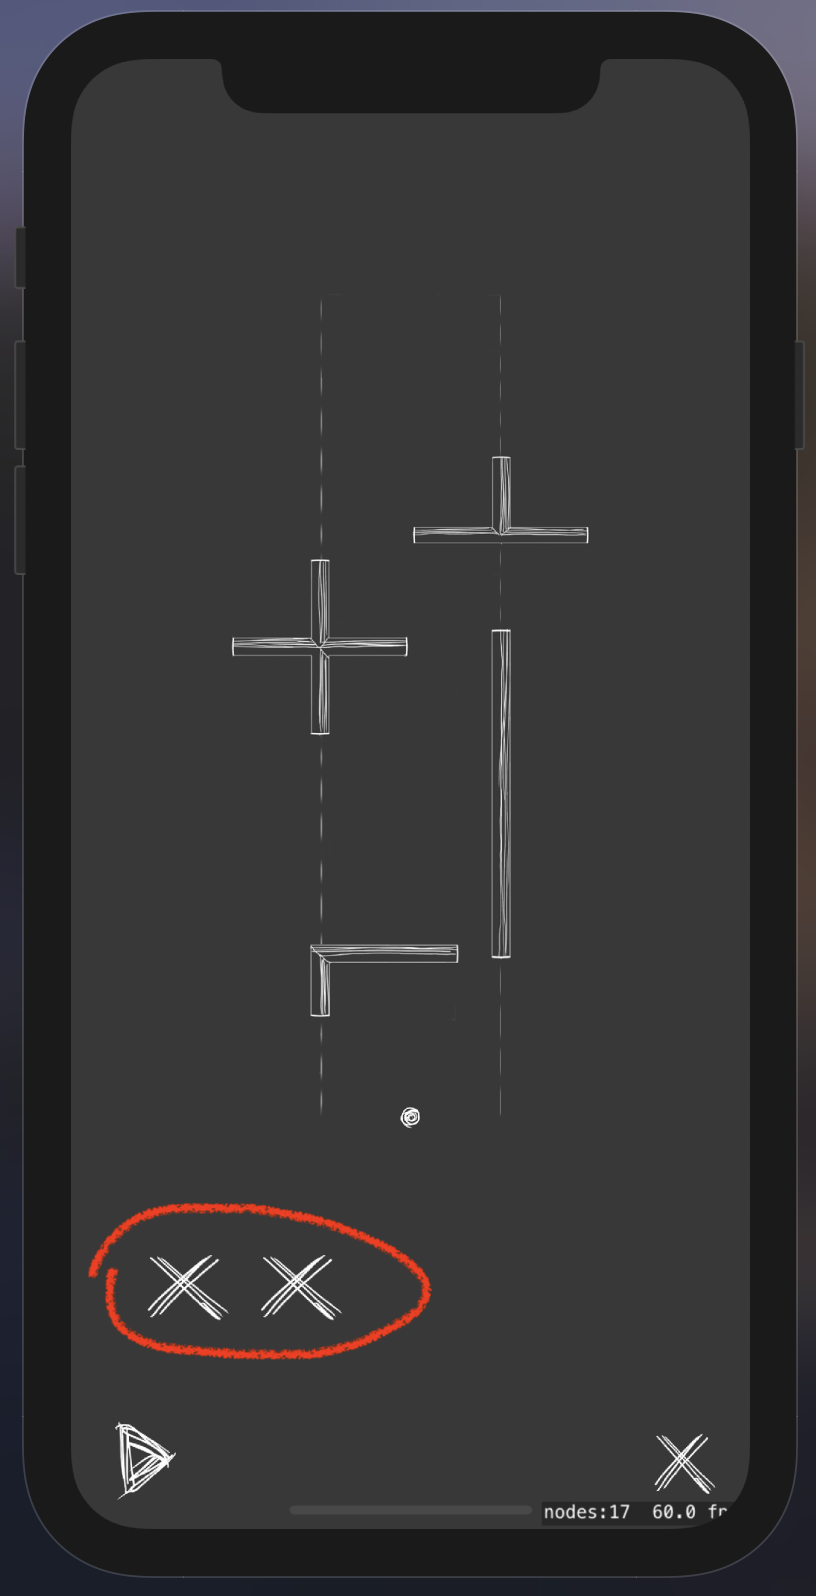
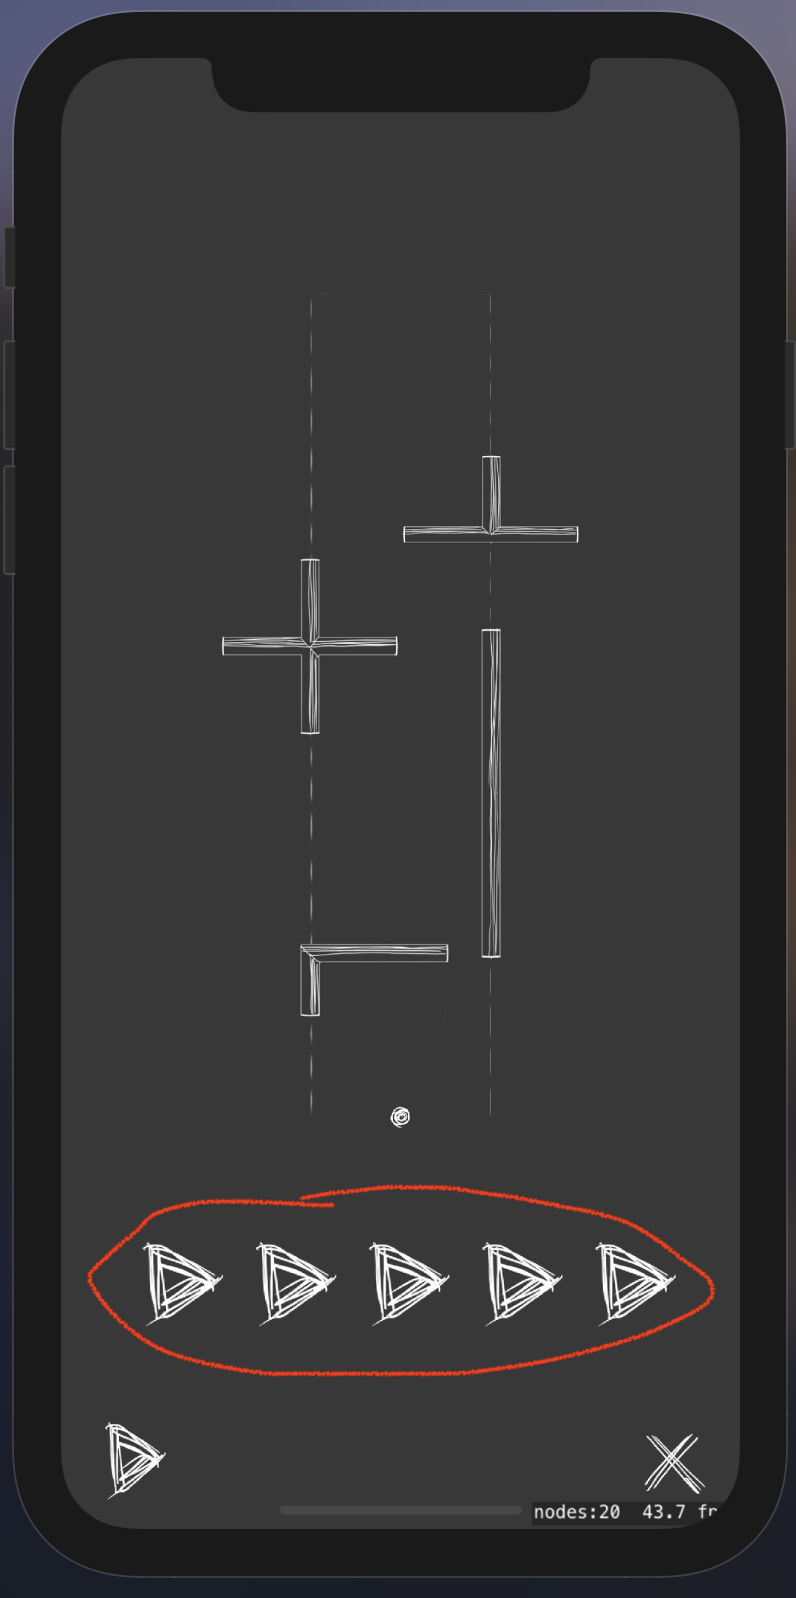
change pics for READme

diff --git a/README.md b/README.md
@@ -5,7 +5,7 @@ Piperror is a coding game in which the player needs to set a sequence of command
 ## How to use
 
 - You need to open the application and press the "Play" button. After that a scene with a choice of levels will appear.
-- After you have selected a level and navigated to it, a scene with the level itself appears. The red line marks the terminal, which will have 5 fields (so far there are only 2), which correspond to time steps.
+- After you have selected a level and navigated to it, a scene with the level itself appears. The red line marks the terminal, which will have 5 fields, which correspond to time steps.
 
 <img src="https://github.com/PanyshevAlex/Piperror/blob/master/pics/terminal.png?raw=true" height="600"/>
 
